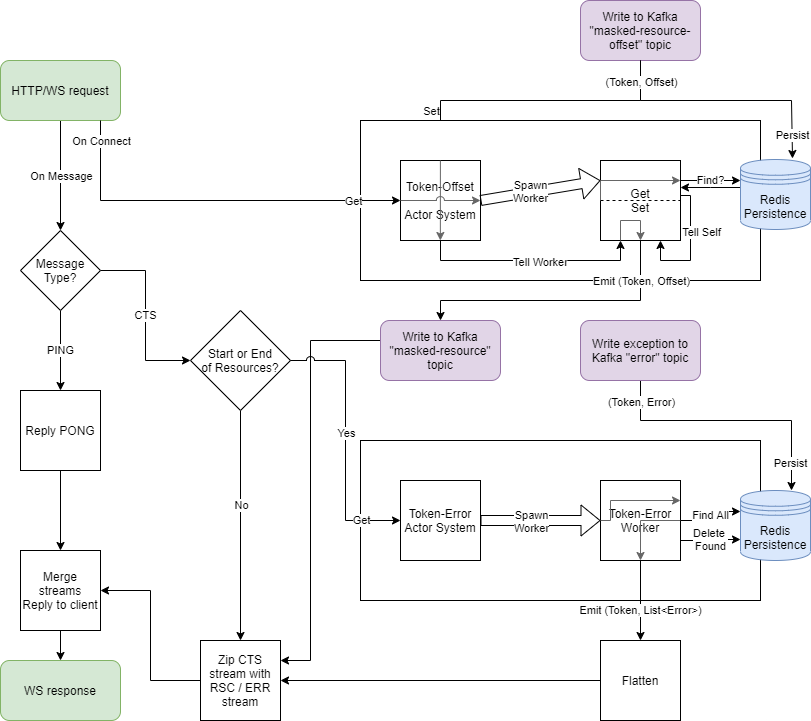
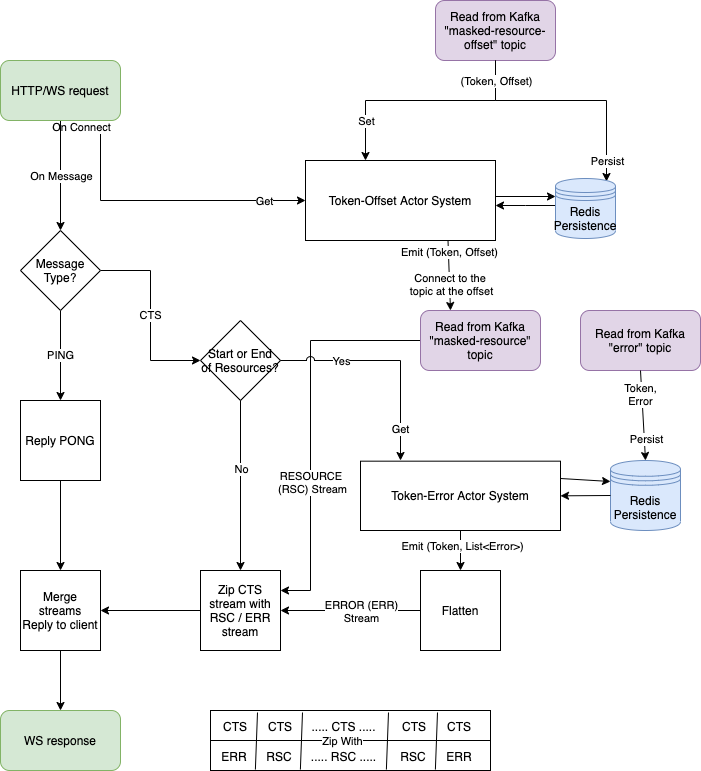
Pal 1090 services ReadMe updates (#358)

diff --git a/filtered-resource-service/README.md b/filtered-resource-service/README.md
@@ -23,8 +23,8 @@ limitations under the License.
 ![Filtered-Resource Service High-Level Diagram](doc/Filtered-Resource-Service-HL.png)
 
 The Filtered-Resource Service sits at the end of the stream pipeline and has the task of returning information about resources (and their connection details) back to the client. 
-Given a token `$[token]` from the Palisade Service, it is accessed by a Websocket request to `ws://filtered-resource-service/resource/${token}`. 
-The service will return each resource discovered by the Palisade system one-by-one to the client as requested, auditing that the client is now aware of these resources. 
+Given a token `$[token]` from the Palisade Service, it is accessed by a WebSocket request to `ws://filtered-resource-service/resource/${token}`. 
+The service will return each resource discovered by the Palisade system one-by-one to the client as requested, auditing that the client is now aware of the resource and has been authorised to access that resource. 
 
 The expectation is that these resources would either be filtered out by the client as not relevant, or requested to download from the Data Service.
 
@@ -33,23 +33,23 @@ The expectation is that these resources would either be filtered out by the clie
 ![Filtered-Resource Service Mid-Level Diagram](doc/Filtered-Resource-Service-ML.png)
 
 The above diagram shows the decision-making architecture of the Attribute-Masking Service (left), Topic-Offset Service (middle) and Filtered-Resource Service (right). 
-The service connects to three kafka topics as inputs:
+The service connects to three Kafka topics as inputs:
 
 * "masked-resource" from the Attribute-Masking Service, containing Leaf Resources for the client's request, stripped of sensitive attributes
 * "masked-resource-offset" from the Topic-Offset Service, containing at most one message per token, pointing to the START marker on the "masked-resource" topic for that token
 * "error" from all services that may produce errors, containing the error produced
 
-An additional kafka topic is used for auditing the client's access to each returned resource - this is the "success" topic, which will be read later by the Audit Service.
+An additional Kafka topic is used for auditing the client's access to each returned resource - this is the "success" topic, which will be read later by the Audit Service.
 
 For a given token, the offset (on the "masked-resource" topic) for this token is received from the "masked-resource-offset" and used to create a consumer starting from this point. 
-This flow of messages is then filtered by their token (the `X-Request-Token` header on kafka) to match the token supplied by the client. 
-Then, as each resource is requested over the websocket, the successful return of each resource to the client is audited to the Audit Service's "success" topic.
+This flow of messages is then filtered by their token (the `X-Request-Token` header on Kafka) to match the token supplied by the client. 
+Then, as each resource is requested over the WebSocket, the successful return of each resource to the client is audited to the Audit Service's "success" topic.
 
 As can be seen in the (above) diagram, the service's functions generally fall into one of four responsibilities: 
 
 * Handling incoming web requests, REST or WS (top-centre of diagram, akka-web-server) 
 * Persisting and retrieving offsets for tokens (top-left of diagram, blue, token-offset-system) 
-* Processing websocket requests and returning resources (bottom of diagram, websocket-event-service) 
+* Processing WebSocket requests and returning resources (bottom of diagram, WebSocket-event-service) 
 * Alerting the client to errors that occurred during processing (right of diagram, yellow, token-error-system)
 
 ## Breakdown of Service Components
@@ -59,29 +59,47 @@ See filtered-resource-service/doc/filtered-resource-service.drawio for the sourc
 --->
 ![Filtered-Resource Service Low-Level Diagram](doc/Filtered-Resource-Service-LL.png)
 
-The main route of web requests - and subsequent websocket messages - through the service is shown in the above diagram. 
-The green boxes are client web requests, red boxes are kafka topics, and red storage is redis persistence.
+The main route of web requests - and subsequent WebSocket messages - through the service is shown in the above diagram. 
+The green boxes are client web requests, red boxes are Kafka topics, and red storage is Redis persistence.
 
-### Token-Offset System
+### Token-Offset Actor System
 
 The top-right box is the token-offset-system and its associated worker actors. 
 This performs the task of persisting and retrieving offsets for tokens. 
-We use an Akka Actor System to process both requests from the client and messages from kafka. 
-In the former case, the offset is either looked-up from redis or told to the actor from kafka. 
-In the latter case, the offset is persisted to redis and then told to all running actors for that given token.
+We use an Akka Actor System to process both requests from the client and messages from Kafka. 
+The first diagram below shows what happens when a client connects to the service before the request has been processed by Palisade.
+The second diagram below shows what happens when a client connects to the service after the request has been processed by Palisade.
 
-### Token-Error System
+#### Early Client Connection
+![Filtered-Resource Service Early Client Connection Diagram](doc/Filtered-Resource-Offset-Early-Client.png)
+
+If the client connects to the service before the request has been processed by Palisade an Akka Actor Worker is spawned, which deals with the incoming offset value.
+The worker will check Redis to check if there are any values present for the token, this will return an empty value (since the client connected early as described).
+The service will then read messages from the `masked-resource-offset` Kafka topic until it finds one for the given token.
+The service will tell the Akka Actor Worker the offset value which is then used by the service to read the resources from the `masked-resource` Kafka topic, starting from the given offset.
+
+#### Late Client Connection
+![Filtered-Resource Service Late Client Connection Diagram](doc/Filtered-Resource-Offset-Late-Client.png)
+
+If the client connects to the service after Palisade has finished processing the request, the information from the `masked-resource-offset` Kafka topic is stored in Redis.
+An Akka Actor Worker is spawned by the service.
+The worker will then check Redis for any values that match the incoming token value (where it will find the offset since the client connected late as described).
+This offset is then used by the worker which then reads messages from the `masked-resource` Kafka topic, starting from the given offset.
+
+### Token-Error Actor System
+
+![Filtered-Resource Service Error Actor System Diagram](doc/Filtered-Resource-Errors-Actor-System.png)
 
 The bottom-right box is the token-error-system and its associated worker actors. 
 This performs the task of persisting and retrieving errors for tokens. 
 We use an Akka Actor System to process requests from the client. 
-For a given token, all errors matching the token are looked-up from redis. 
-This list of errors are then deleted from redis and emitted by the actor. 
+For a given token, all errors matching the token are looked-up from Redis. 
+The returned list of errors are then deleted from Redis and emitted by the actor. 
 
-### Websocket Event Service
+### WebSocket Event Service
 
-The left-half is the websocket-event-service. 
-An instance of this service is created for each open client websocket connection. 
+The left-half is the WebSocket-event-service. 
+An instance of this service is created for each open client WebSocket connection. 
 The client and server communicate using the following protocol:
 
 | Client Request | Server Response                | Notes
@@ -90,7 +108,7 @@ The client and server communicate using the following protocol:
 | CTS            | RESOURCE, ERROR, COMPLETE      | A client's clear-to-send message is met with either a RESOURCE from the server (id, type, format, connection-detail) or an ERROR (message-details). Once all RESOURCEs and ERRORs are exhausted, then a COMPLETE message is returned.
 
 In particular, the Filtered-Resource Service checks for errors *twice* - once before any resources and once after.
-This means 'early' errors that came in *before* the client connected (eg. from the User Service) are delivered to the client sooner, and they may choose to re-register a request.
+This means 'early' errors that came in *before* the client connected (e.g. from the User Service) are delivered to the client sooner, and they may choose to re-register a request.
 'Late' errors, those which arrived *after* the client connected are then delivered only after all resources have been delivered, alerting the client that their result set may be incomplete, allowing them to choose whether to re-register their request or continue.
 This minimises the number of queries to the error persistence store per client, while also providing prompt notification of errors.
 
@@ -104,13 +122,13 @@ It exposes the following HTTP REST endpoints:
 |:---------------|:-------------------------------|:----------------
 | GET            | `/actuator/health/$component`  | Provides an indicator for application health for a given component (can be empty), backed by Spring's health mechanism
 | GET, POST      | `/actuator/loggers/$package`   | Get or set logging level for a given package (can be empty), backed by Spring's logging mechanism
-| POST           | `/api/{resource,offset,error}` | Write a payload to an (upstream) kafka queue such that it will then be processed by the service
+| POST           | `/api/{resource,offset,error}` | Write a payload to an (upstream) Kafka queue such that it will then be processed by the service
 
-It also exposes the following Websocket endpoint:
+It also exposes the following WebSocket endpoint:
 
 | Request Type   | Endpoint                       | Notes
 |:---------------|:-------------------------------|:----------------
-| WS_UPGRADE     | `/resource/$token`             | Connect to the service and carry out the websocket protocol described above. There will be no indication from the server as to whether the provided token is valid until a RESOURCE, ERROR or COMPLETE message is received.
+| WS_UPGRADE     | `/resource/$token`             | Connect to the service and carry out the WebSocket protocol described above. There will be no indication from the server as to whether the provided token is valid until a RESOURCE, ERROR or COMPLETE message is received.
 
 
 ## Example Data Payloads
@@ -132,7 +150,7 @@ The Filtered Resource Service will send audit messages, specifically an `AuditEr
    If resources are processed by the Filtered-Resource Service before a start marker is observed, it could indicate that there is an issue earlier on in the system which could cause the messages to fall out of order. 
    In this case, an Audit Error Message is created, containing a `NoStartMarkerObserved` exception, which is then sent to the Audit Service, and finally, the processing of the request is stopped. 
 2. No Resources were contained in the request. 
-   If a start marker is observed, but no resources are contained in the request, the request could be invalid, for resources that aren't known to Paliasde, or for resources that have been redacted. 
+   If a start marker is observed, but no resources are contained in the request, the request could be invalid, for resources that aren't known to Palisade, or for resources that have been redacted. 
    In this case, an Audit Error Message is created, containing a `NoResourcesObserved` exception, and is then sent to the Audit Service. 
 
 ## Message Model

diff --git a/README.md b/README.md
@@ -20,6 +20,10 @@ limitations under the License.
 Windows is not an explicitly supported environment, although where possible Palisade has been made compatible.  
 For Windows developer environments, we recommend setting up [WSL](https://docs.microsoft.com/en-us/windows/wsl/).
 
+### Getting Started
+This is not the starting point for understanding Palisade.
+This should be done from within the main [Palisade repo](https://github.com/gchq/Palisade)
+
 ## Overview
 
 From the client’s perspective, they submit a request to examine data and receive a reference for this data. 
@@ -45,17 +49,15 @@ See doc/services.drawio for the source of this diagram
 --->
 ![Service Sequence diagram](doc/services.png)
 
-[Palisade Service](palisade-service/README.md) recieves a clients request, returns a unique token and initiates the processing of resources.
-[User Service](user-service/README.md) connects to User Service providers to ensure the user exists.  
-[Resource Service](resource-service/README.md) communicates with the backing stores to ensure the resource exists.
-[Policy Service](policy-service/README.md) checks that policies exist for each resource in a request.  
-[Attribute-Masking Service](attribute-masking-service/README.md) applies policies from the Policy Service against the resources in the request.
-[Topic-Offset Service](topic-offset-service/README.md) listens to kafka topics to inform the Filtered-Resource Service where on the topic (at what offset) the first message for each token appears.
-[Filtered-Resource Service](filtered-resource-service/README.md) readies the resources and later handles passing the data to the client.  
-
-[Data Service](data-service/README.md) retrieves resources from the relevant backing stores. 
-
-[Audit Service](audit-service/README.md) operates in the background providing an audit log for each request. 
+1. [Palisade Service](palisade-service/README.md) receives a client's request, returns a unique token and initiates the processing of resources.
+1. [User Service](user-service/README.md) connects to User Service providers to acquire the requested user details.  
+1. [Resource Service](resource-service/README.md) connects to Resource Service providers to get the metadata for the requested resource(s).
+1. [Policy Service](policy-service/README.md) connects to Policy Service providers to acquire the rules that must apply to each resource in a request, checking that at least some policy exists, and applies resource-level rules to each resource.
+1. [Attribute-Masking Service](attribute-masking-service/README.md) stores the User, Resource, Context and Rules of an authorised request for a token.
+1. [Topic-Offset Service](topic-offset-service/README.md) listens to kafka topics to inform the Filtered-Resource Service where on the topic (at what offset) the first message for each token appears.
+1. [Filtered-Resource Service](filtered-resource-service/README.md) readies the resources and later handles passing the resource metadata to the client.
+1. [Data Service](data-service/README.md) retrieves the data for each of the resources from the relevant data store providers.
+1. [Audit Service](audit-service/README.md) operates in the background providing an audit log for each request. 
 
 For an overview of all Palisade components, see the root [Palisade README](https://github.com/gchq/Palisade#readme). 
 
@@ -79,6 +81,9 @@ This is achieved via profile activation (**pi**, "push image"), eg:
 ```
 mvn clean install -pl <module name> -P pi
 ```
+This will only create new charts and Docker images with a new tag value.
+These new charts and images will still need to be deployed to any current helm deployments of Palisade.
+This can be done by using the `helm upgrade` command or by doing a new `helm install` if Palisade has not been deployed.
 
 ### Considerations for running under Windows
 
@@ -100,7 +105,7 @@ Changes will require a reboot to take effect.
 ### Helm Install
 
 It is recommended that Palisade is released to Kubernetes via helm using the templates included within this project.
-As a prerequisite, the helm client will need to be installed on the client and the Kubernetes context will need to be configured to point at the target cluster.
+As a prerequisite, the helm client will need to be installed on the client, and the Kubernetes context will need to be configured to point at the target cluster.
 ```
 kubectl config get-contexts
 kubectl config use-context <name>
@@ -111,10 +116,10 @@ Example first deployment to a local cluster (from the project root directory):
 helm upgrade --install palisade . \
   --set global.persistence.dataStores.palisade-data-store.local.hostPath=${pwd}  \
   --set global.persistence.classpathJars.local.hostPath=${pwd}  \
-  --timeout=200s
+  --timeout=600s
 ```
 The working directory from `$(pwd)` will be used as the mount-point for the Data Service, as well as for finding classpath-jars.
-Kafka and redis persistence is mounted using the `/tmp` directory by default.
+Kafka and Redis persistence is mounted using the `/tmp` directory by default.
 
 An example second deployment may want to use traefik to enable access into the cluster.
 This can be done by adding the additional flag:
@@ -164,7 +169,7 @@ Some more important arguments are as follows:
 | global.kafka.install                    | Install Kafka and Zookeeper, **default=true**
 | global.redis.install                    | Install Redis, **default=true**
 | global.redis-cluster.install            | Install Redis-cluster, **default=false**
-| global.redis-cluster-enabled            | Set to true to use Redis-cluster or false to use Redis. Useful if redis is already installed. **default=false**
+| global.redis-cluster-enabled            | Set to true to use Redis-cluster or false to use Redis. Useful if Redis is already installed. **default=false**
 
 #### Base Image Variants
 The base image used can be customised using the maven property `dockerfile.base.image` and labelled with `dockerfile.base.tag`.

diff --git a/palisade-service/README.md b/palisade-service/README.md
@@ -23,16 +23,19 @@ limitations under the License.
 The Palisade Service is the entry point into the rest of the Palisade Services.
 It accepts a request from the client, containing the userId of the user requesting access, the resource the user wants access to, and the context as to why they require access. 
 The Palisade Service then creates a token, currently via the UUIDPalisadeService, but this can be extended in the future for specific token requirements. 
-The token is attached to the message in the form of a `PalisadeSystemResponse` to be sent to the User Service on the `user` kafka topic. 
+The token is attached to the message in the form of a `PalisadeSystemResponse` to be sent to the User Service on the `user` Kafka topic. 
 It is also sent back to the client directly as part of a `PalisadeClientResponse` so that the client can connect to the Filtered Resource Service to retrieve the processed request.
 As the request progresses through the other Palisade services, it is refined and enriched, the Palisade Service is the entry point for client requests.
+The service also creates a start and end marker message for each request that will help the other services to determine where each request starts and ends.
 
 ## High-Level Architecture
 <!--- 
 See palisade-service/doc/palisade-service.drawio for the source of this diagram
 --->
 ![Palisade Service diagram](doc/palisade-service.png)
-The routing of requests is shown in the diagram above. The yellow boxes indicate the client, and the purple are kafka topics.
+
+The routing of requests is shown in the diagram above. 
+The green box indicate the client request, the red box indicates the creation of an error, the purple boxes are Kafka topics, and the blue icons are for the persistence/cache.
 
 ## Message Model and Database Domain
 
@@ -47,17 +50,22 @@ The routing of requests is shown in the diagram above. The yellow boxes indicate
 
 (fields marked with * are acquired from headers metadata)
 
-The service accepts a `PalisadeClientRequest`, containing the userId, resourceId and context, it then generates a token, using the `UUIDPalisadeService`, which along-side the original request information,
-is packaged in a `PalisadeSystemResponse` and sent onwards via the `user` kafka topic to the User service for further processing. 
+The service accepts a `PalisadeClientRequest`, containing the userId, resourceId and context.
+It then generates a token, using the `UUIDPalisadeService`, which along-side the original request information, is packaged in a `PalisadeSystemResponse`.
+The service will then create an empty message to mark the start of the request.
+This is done by adding the value `START` to a custom header for the request named `x-stream-marker`, this empty message is then sent to the `user` topic.
+The service then sends the `PalisadeSystemResponse` onwards via the `user` Kafka topic to the User Service for further processing. 
+The service will then create another empty message to mark the end of the request.
+This is done in the same way as the start message, a custom header with a key of `x-stream-token`, but the header value is `END`.
 The token is also added to a `PalisadeClientResponse` object, which is sent back to the client, so that they can get the processed request from the Filtered Resource Service.
 
 ## REST Interface
 
-Palisade Service exposes two REST endpoints:
+Palisade Service exposes one REST endpoint:
 
 * `POST palisade/registerDataRequest`
     - accepts an `x-request-token` `String` header, any number of extra headers, and an `PalisadeClientRequest` body
-    - returns a `202 ACCEPTED` and a `PalisadeClientResponse` containing a token, after writing the headers and body to the `user` kafka topic
+    - returns a `202 ACCEPTED` and a `PalisadeClientResponse` containing a token, after writing the headers and body to the `user` Kafka topic
 
 ## Kafka Interface
 

diff --git a/resource-service/README.md b/resource-service/README.md
@@ -21,7 +21,7 @@ limitations under the License.
 # Resource Service
 
 The Resource Service accepts an incoming message from the `user` Kafka topic which contains the resourceId that is being accessed (this could be an actual file, or a directory that could contain many files and/or sub-directories).
-The service will then query the backing store to see if the requested resourceId has been stored.
+The service will then query the cache to see if the requested resourceId has been stored.
 If this is not the case then the request will be passed onto the local implementation of the Resource Service.
 All the returned resources will be within an Akka stream, each element in the stream is then consumed and added to the `resource` Kafka topic to be processed by the Policy Service.
 
@@ -50,9 +50,17 @@ The service accepts a `ResourceRequest` from the User Service, finds all the res
 
 ## Kafka Interface
 
-The application receives 3 messages for each token, a `START` message, a message containing a `ResourceRequest` and an `END` message. The `START` gets consumed by the service, it is then acknowledged as the start of the resources and is then written to the `resource` Kafka topic.
+The application receives 3 messages for each token: 
+1. A `START` message,
+2. A message containing a `ResourceRequest`, 
+3. An `END` message.
 
-The `ResourceRequest` message then gets consumed by the service and for each resource a `ResourceResponse` object is created. This then gets written to the `resource` Kafka topic. Once all the`ResourceResponse`s have been written to the topic, the `END` message gets written to the `resource` topic to mark the end of the resources for this request. If any errors are thrown within the service, the original request, along with the thrown exception are captured in an `AuditErrorMessage` and written to the Kafka `error` topic.
+In order to determine which message is the `START` and which message is the `END` these values are written into the `x-stream-marker` header by the Palisade Service.
+The `START` gets consumed by the service, it is then acknowledged as the start of the resources and is then written to the `resource` Kafka topic.
+The `ResourceRequest` message then gets consumed by the service and for each resource a `ResourceResponse` object is created. 
+This then gets written to the `resource` Kafka topic. 
+Once all the`ResourceResponse` objects have been written to the topic, the `END` message gets written to the `resource` topic to mark the end of the resources for this request. 
+If any errors are thrown within the service, the original request, along with the thrown exception are captured in an `AuditErrorMessage` and written to the Kafka `error` topic.
 
 ## REST Interface
 
@@ -135,9 +143,11 @@ curl -X POST api/resource -H "content-type: application/json" --data \
 }
 ```
 
-## Uploading resources to the backing store on service start-up
+## Uploading resources to the cache on service start-up
 
-It may be that some example resources may need to be added to the backing store before, for example, a test run of the Palisade system gets performed. This is solved by using Spring to upload resource(s) to the service from a yaml file. An example of this can be seen in this [test-resource.yaml](src/contract-tests/resources/application-test-resource.yaml) file which adds the resource information to the backing store when the service starts up.
+It may be that some example resources may need to be added to the cache before, for example, a test run of the Palisade system gets performed. 
+This is solved by using Spring to upload resource(s) to the service from a yaml file. 
+An example of this can be seen in this [test-resource.yaml](src/contract-tests/resources/application-test-resource.yaml) file which adds the resource information to the cache when the service starts up.
 
 ## Database Entities and Structuring
 

diff --git a/topic-offset-service/README.md b/topic-offset-service/README.md
@@ -39,8 +39,8 @@ See topic-offset-service/doc/topic-offset-service.drawio for the source of this 
   
 (fields marked with * are acquired from headers metadata)
 
-The Topic-Offset Service monitors and watches the `masked-resource` Kafka topic and reports the offsets that satisfy some prerequisites. 
-This service accepts a `TopicOffsetRequest`, which contains a token, it is then used to subscribe to the kafka topic and check for a Start of Stream message, declared in the `StreamMarker` class. 
+The Topic-Offset Service monitors and watches the `masked-resource` Kafka topic and reports the offsets that satisfy some prerequisites.
+This service retrieves the values of the `x-request-token` and `x-stream-marker` headers to decide if the `START` has been found for this token.  
 When a Start of Stream message is observed, the commitOffset is retrieved, and sent onward to the [Filtered-Resource Service](../filtered-resource-service) to point the Filtered-Resource Service to the commitOffset on the Kafka topic.
 
 ## REST Interface
@@ -50,10 +50,12 @@ The application exposes two REST endpoints used for debugging or mocking the kaf
   - accepts an `x-request-token` `String` header, any number of extra headers, and a single `TopicOffsetRequest` in the body
   - returns a `202 ACCEPTED` after writing the headers and `TopicOffsetRequest` to kafka
 * `POST api/offset/multi`
-  - accepts an `x-request-token` `String` header, any number of extra headers, and a list of `TopicOffsetRequest`s within the body
+  - accepts an `x-request-token` `String` header, any number of extra headers, and a list of `TopicOffsetRequest` objects within the body
   - returns a `202 ACCEPTED` after writing the headers and `TopicOffsetRequest` to kafka
 
 ## Example JSON Request
+The following example request forms the body of the request however, the Topic-Offset Service looks for a specific header associated with each request message.
+The request body can be empty as it is treated as an Optional within the RunnableGraph
 ```
 curl -X POST topic-offset-service/api/offset -H "x-request-token: test-request-token" -H "content-type: application/json" --data \
 '{
@@ -82,6 +84,7 @@ curl -X POST topic-offset-service/api/offset -H "x-request-token: test-request-t
 
 
 ## Example JSON Kafka Topic ('masked-resource-offset') Output
+The following response is only outputted to the topic if the service has received a `START` message
 ```
 '{
    "commitOffset": 101

diff --git a/policy-service/README.md b/policy-service/README.md
@@ -20,8 +20,25 @@ limitations under the License.
 
 # Policy Service
 
-The responsibility of the Policy Service is to provide the set of rules (filters or transformations) that need to be
-applied to each resource that has been requested, based the User and Context.
+The responsibility of the Policy Service is to provide the "set of rules" (filters or transformations) that need to be applied to each resource that has been requested, based on the User, Resource and Context.
+
+Since resources are hierarchically-organised objects, so too is the complete set of rules on a resource.
+For a given resource, the Policy Service will additionally collect rules of each parent resource (and grand-parent etc.), merging all of these together to form the final rule-set.
+
+The "set of rules" are split into two groups:
+1. Resource Level Rules (If no resource level rules are set on a resource then access will be denied to all users)
+1. Record Level Rules (If no record level rules are set on a resource then access will be denied to all users)
+
+A resource will need to have at least 1 resource level and 1 record level rule associated with it, this can be as simple as a pass through rule that does nothing.
+If either of these are not associated with the resource then the system will assume that nobody has access to it.
+
+#### Resource Level Rules
+These rules define whether a `User` is allowed to access a `Resource` in a given `Context` (e.g. what is their purpose for this data request).
+Therefore, the rules can only be based on the metadata about that resource coming from the Resource Service, the attributes about the user coming from the User Service, and the query context that is passed in from the user making the query and enriched by the Palisade Service. 
+
+#### Record Level Rules
+These rules define what records of a `Resource` a `User` is allowed to see for the given `Context`.
+The record level rules allow interrogation of any fields in the record to make the decisions as to what redactions or transformations need to happen to the fields to make them suitable for the user to see.
 
 ## High Level Architecture
 

diff --git a/filtered-resource-service/doc/README.md b/filtered-resource-service/doc/README.md
@@ -33,3 +33,16 @@ See [draw.io](https://app.diagrams.net/) for the tools to reproduce the image fr
 
 ### [Filtered-Resource-Service-LL.drawio](./Filtered-Resource-Service-LL.drawio)
 ![filtered-resource-service.drawio](./Filtered-Resource-Service-LL.png)
+
+---
+
+### [Topic-Offset-Actor-System.drawio](./Filtered-Resource-Offset-Actor-System.drawio)
+#### Early Client Connection
+![filtered-resource-service.drawio](./Filtered-Resource-Offset-Early-Client.png)
+#### Late Client Connection
+![filtered-resource-service.drawio](./Filtered-Resource-Offset-Late-Client.png)
+
+---
+
+### [Topic-Errors-Actor-System.drawio](./Filtered-Resource-Errors-Actor-System.drawio)
+![filtered-resource-service.drawio](./Filtered-Resource-Errors-Actor-System.png)

diff --git a/services-manager/README.md b/services-manager/README.md
@@ -25,10 +25,6 @@ The source for this file can be found at `services-manager/src/resources/doc/REA
 
 # Palisade Services Manager
 
-## Documentation
-
-The documentation for the latest release can be found [here](https://gchq.github.io/Palisade).
-
 ## Getting started
 
 The Palisade Services Manager is a configuration-driven process-spawner and REST-client with particular considerations to assist in managing multiple Palisade services running on local JVMs.
